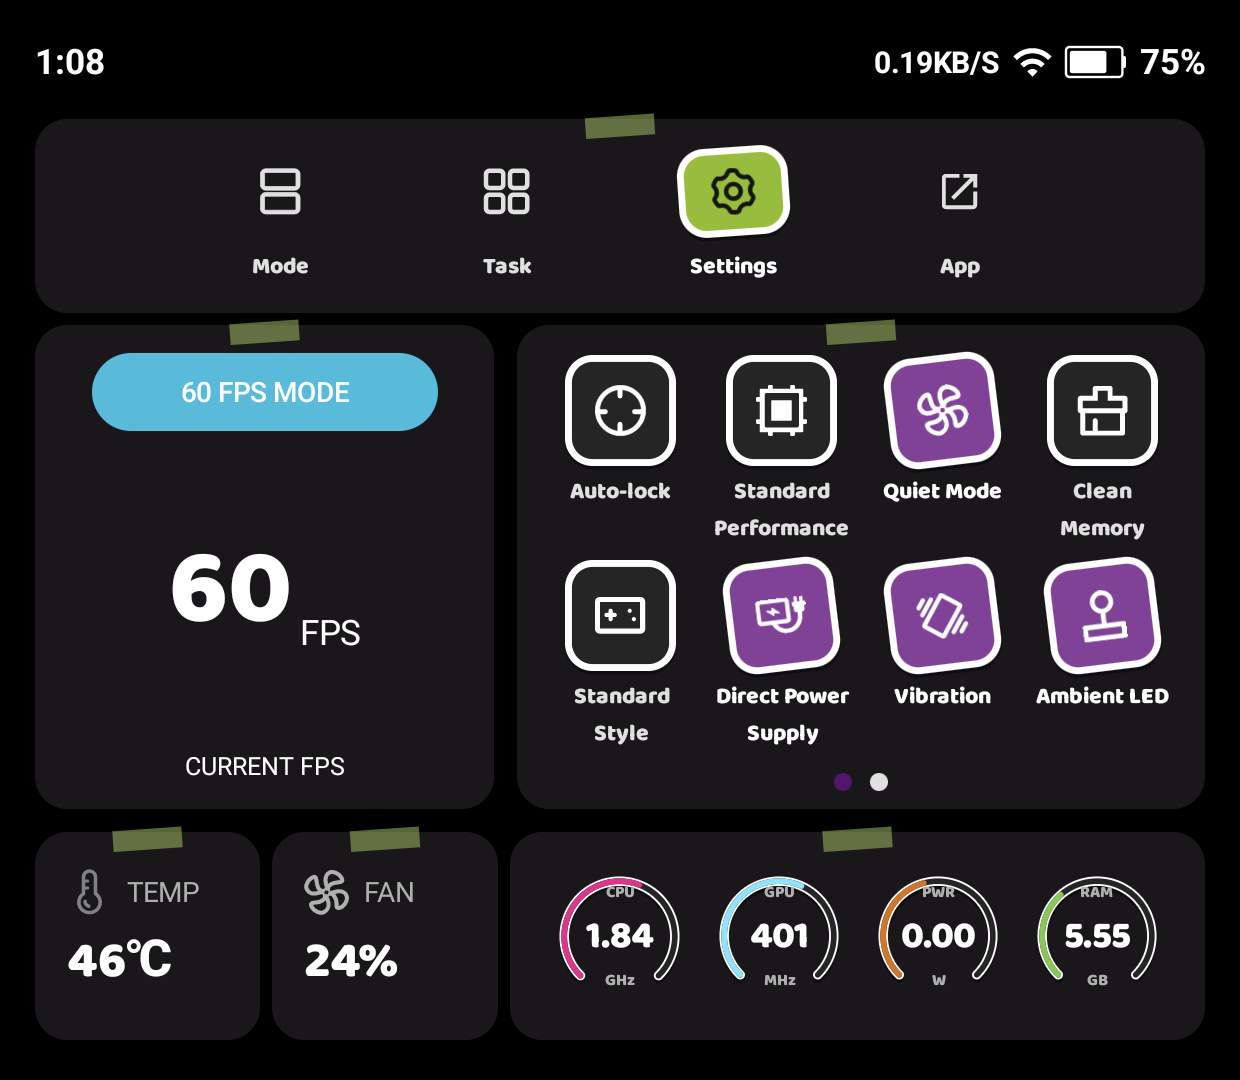
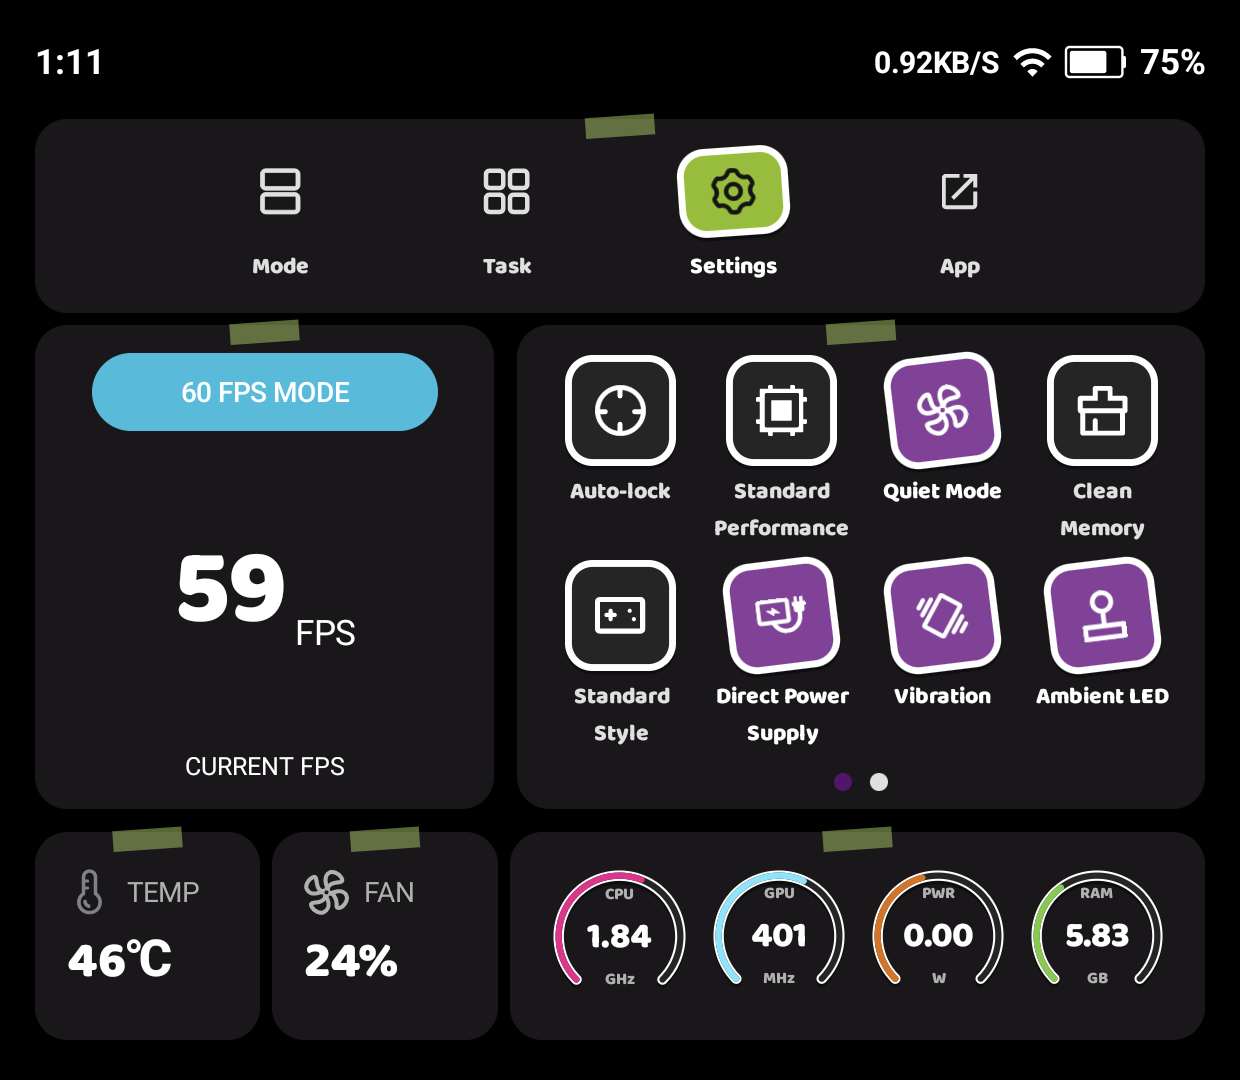
fix(looks): stop Sticker Book gauge labels clipping (CPU/GPU/PWR/RAM)
Sticker Book's rounded-bold font is tall, so the title+value+unit column overflowed the gauge box and the top
labels clipped. Give its gauges more room (ringDiameterRatio 0.94) and a slightly smaller readout
(ringValueScale 0.26, title/unit 0.12) so the labels sit fully inside. Refresh screenshot + gallery.

diff --git a/app/src/main/java/jr/brian/commandpannel/ui/theme/TccLookSpec.kt b/app/src/main/java/jr/brian/commandpannel/ui/theme/TccLookSpec.kt
@@ -212,7 +212,9 @@ val StickerBookLookSpec: TccLookSpec = StockLookSpec.copy(
     panelCardShape = RoundedCornerShape(aynDp(14f)),
     tile = StockLookSpec.tile.copy(buttonShape = RoundedCornerShape(aynDp(12f))),
     slider = StockLookSpec.slider.copy(trackShape = PillShape),
-    settingsTab = StockLookSpec.settingsTab.copy(fpsBadgeShape = PillShape),
+    // The rounded-bold font is tall, so give the gauge column more room and trim the readout so CPU/GPU/PWR/RAM
+    // labels don't clip at the top.
+    settingsTab = StockLookSpec.settingsTab.copy(fpsBadgeShape = PillShape, ringDiameterRatio = 0.94f, ringValueScale = 0.26f, ringTitleScale = 0.12f, ringUnitScale = 0.12f),
     dialog = DialogLookSpec(dialogShape = RoundedCornerShape(aynDp(16f))),
     traits = LookTraits(
         card = CardStyle.STICKER_NOTE, tile = TileStyle.STICKER, gauge = GaugeStyle.STICKER_DONUT,
